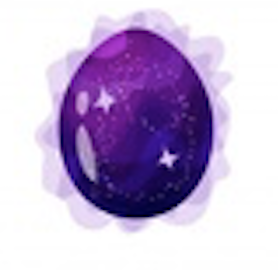
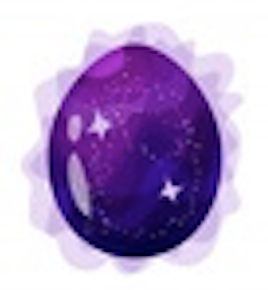
adding img for gems

diff --git a/index.html b/index.html
@@ -35,16 +35,24 @@
 <br>
 <div class="row">
     <div class="col-lg-3 crystals">
-        <div id="gem1"></div>
+        <div id="gem1">
+            <img src="assets/images/gem1.jpg" width="150" height="200">
+        </div>
     </div>
     <div class="col-lg-3">
-        <div id="gem2"></div>
+        <div id="gem2">
+            <img src="assets/images/gem2.jpg" width="150" height="200">
+        </div>
     </div>
     <div class="col-lg-3">
-        <div id="gem3"></div>
+        <div id="gem3">
+            <img src="assets/images/gem3.jpg" width="150" height="200">
+        </div>
     </div>
     <div class="col-lg-3">
-        <div id="gem4"></div>
+        <div id="gem4">
+            <img src="assets/images/gem4.jpg" width="150" height="200">
+        </div>
     </div>
 </div>
 <br>

diff --git a/assets/css/style.css b/assets/css/style.css
@@ -14,7 +14,7 @@ body {
 }
 .htp {
     color: azure;
-    font-family:'Lacquer', sans-serif; ;
+    font-family:'Lacquer', sans-serif;  
     border: 1.5px solid gray;
     padding: 4%;
 
